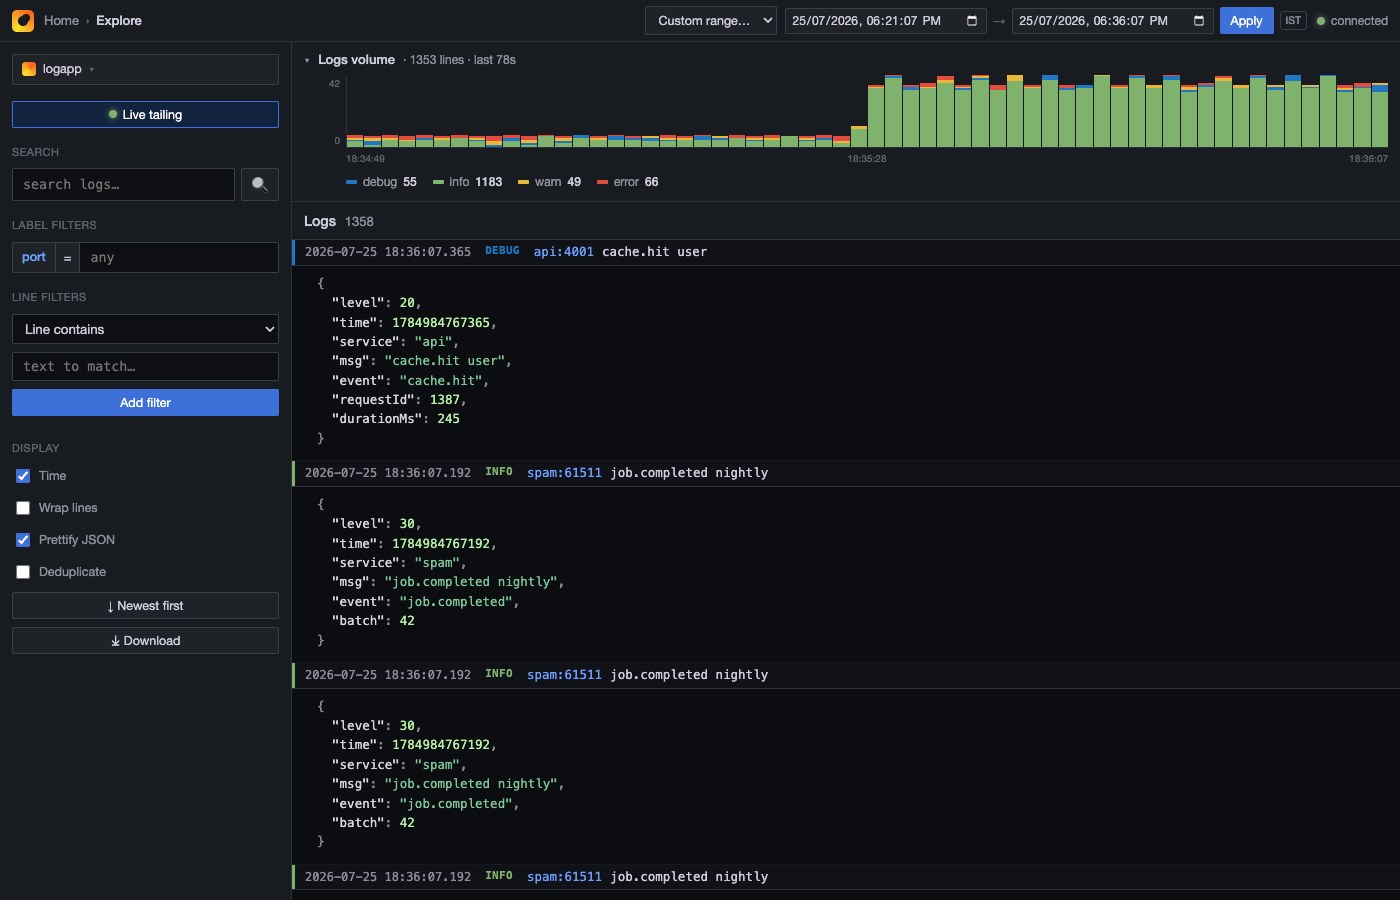
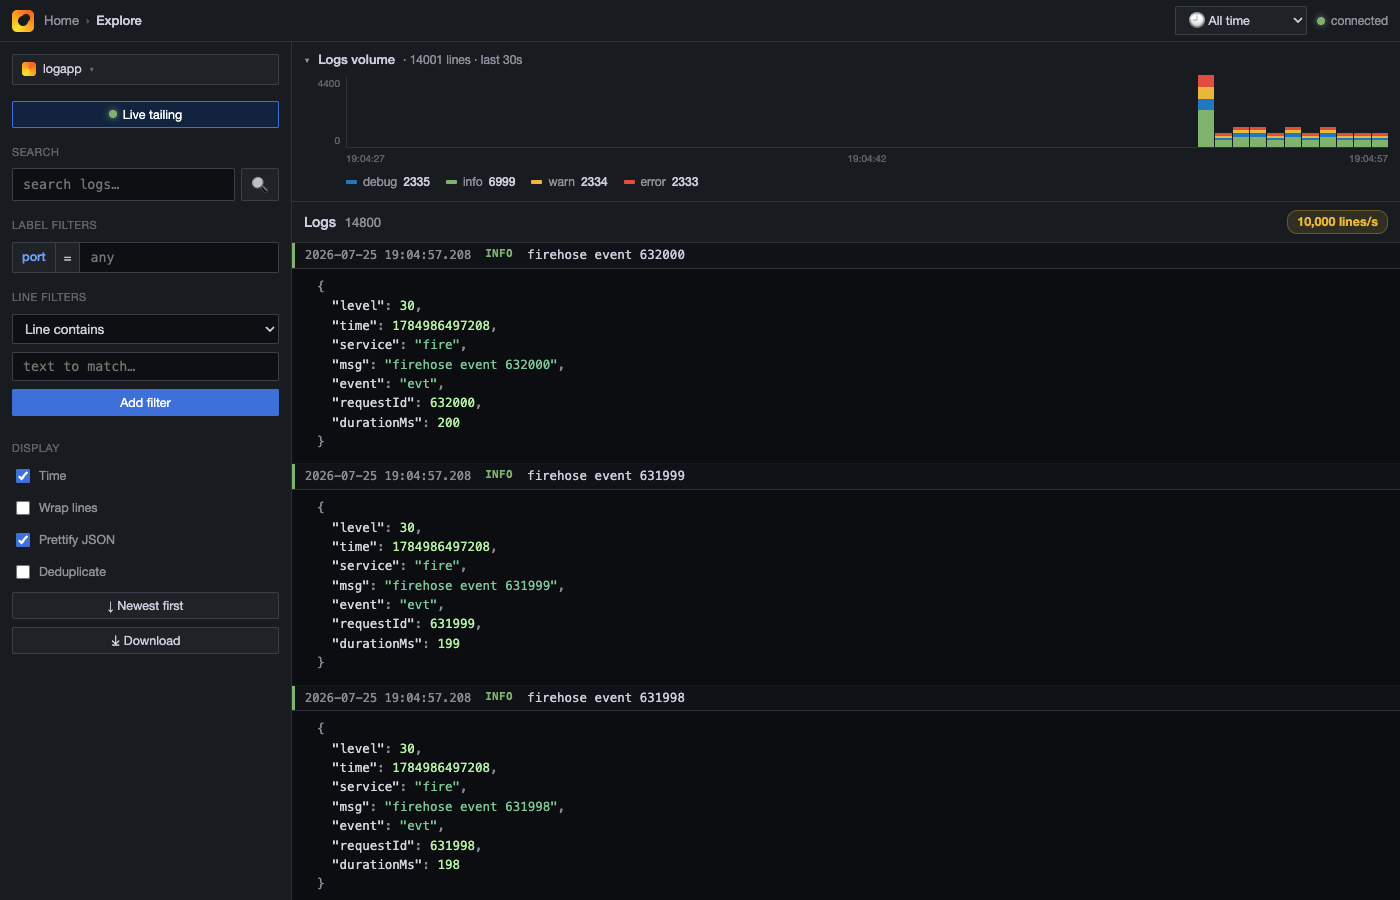
Firehose-safe ingest: survive 10k+ lines/sec without hanging daemon or Chrome
- Raw append to disk (write the original line, no re-serialize); amortised ring
  buffer splice so per-line cost stays O(1) at high volume.
- Rate-limited, batched SSE: live events flush once per 200ms as one array
  (<= LOGAPP_LIVE_BATCH, default 400), instead of one message per line — the
  browser is never flooded. Per-second rate broadcast + a 'N lines/s' badge.
- DOM capped at 800 rows; render debounce 200ms. Chrome renders only a
  screenful regardless of total volume.
- Verified at 10,000 lines/sec: daemon ~11.6% CPU / ~100MB RSS, Chrome fully
  responsive (~0.4ms evaluate roundtrip), DOM = 800 rows, rate badge = 10,000/s.
- Backend E2E 8/8, browser E2E 42/42 still green.

diff --git a/public/index.html b/public/index.html
@@ -124,6 +124,9 @@
     background: var(--panel); border-bottom: 1px solid var(--border); flex: none; }
   .logshead .h { font-weight: 500; font-size: 14px; }
   .logshead .h span { color: var(--weak); font-weight: 400; margin-left: 5px; font-size: 13px; }
+  .rate { color: var(--l-warn); font-weight: 600; font-variant-numeric: tabular-nums; font-size: 12.5px;
+    background: rgba(234,184,57,.12); border: 1px solid rgba(234,184,57,.3); border-radius: 10px; padding: 2px 9px; }
+  .rate:empty { display: none; }
   .chk { display: inline-flex; align-items: center; gap: 6px; color: var(--weak); font-size: 12.5px; cursor: pointer; user-select: none; }
   .chk input { accent-color: var(--blue); width: 14px; height: 14px; cursor: pointer; }
 
@@ -257,7 +260,7 @@
       <div class="xaxis" id="xaxis"></div>
       <div class="legend" id="legend"></div>
     </div>
-    <div class="logshead"><div class="h">Logs <span id="count">0</span></div></div>
+    <div class="logshead"><div class="h">Logs <span id="count">0</span></div><div class="spacer"></div><span id="rate" class="rate"></span></div>
     <div id="log"><div class="empty" id="empty">Waiting for logs… run a server with <code>… --logapp</code>.</div></div>
   </main>
 </div>
@@ -284,7 +287,7 @@ let quickSearch = ''
 let timeRangeMs = 0
 let timeFrom = null
 let timeTo = null
-const MAX_DOM = 1500
+const MAX_DOM = 800
 let live = true, wrap = false, prettify = true, dedup = false, showTime = true, sortDesc = true
 let pendingNew = 0, renderTimer = null, lastHist = 0, atEdgeAllowed = true
 
@@ -416,7 +419,7 @@ function render () {
 function scheduleRender (force) {
   if (force) atEdgeAllowed = true
   if (renderTimer) return
-  renderTimer = setTimeout(render, 110)
+  renderTimer = setTimeout(render, 200)
 }
 
 function renderHistogram () {
@@ -512,6 +515,12 @@ function applyStream (s) {
   else if (s.port) streamState[s.name].port = s.port
 }
 
+function applyRates (rates) {
+  let total = 0
+  rates.forEach((r) => { if (streamState[r.name]) streamState[r.name].rate = r.rate; total += r.rate })
+  $('rate').textContent = total > 0 ? total.toLocaleString() + ' lines/s' : ''
+}
+
 let es
 function connect () {
   es = new EventSource('/events')
@@ -520,7 +529,9 @@ function connect () {
   es.onmessage = (m) => {
     const d = JSON.parse(m.data)
     if (d.type === 'snapshot') { (d.streams || []).forEach(applyStream); d.events.forEach((ev) => addEvent(ev, false)); renderHistogram(); scheduleRender(true) }
+    else if (d.type === 'logs') { for (const ev of d.events) addEvent(ev, true) }
     else if (d.type === 'log') addEvent(d.event, true)
+    else if (d.type === 'rates') applyRates(d.rates)
     else if (d.type === 'stream') applyStream(d.stream)
   }
 }

diff --git a/bin/logapp.js b/bin/logapp.js
@@ -18,6 +18,7 @@ const LOCK_FILE = path.join(STATE_DIR, 'daemon.lock')
 const DAEMON_LOG = path.join(STATE_DIR, 'daemon.log')
 const MAX_BUFFER = Number(process.env.LOGAPP_BUFFER) || 20000
 const SNAPSHOT_LIMIT = Number(process.env.LOGAPP_SNAPSHOT) || 4000
+const LIVE_BATCH = Number(process.env.LOGAPP_LIVE_BATCH) || 400
 const PERSIST = process.env.LOGAPP_PERSIST !== '0'
 const MAX_FILE_BYTES = (Number(process.env.LOGAPP_MAX_FILE_MB) || 2048) * 1024 * 1024
 
@@ -114,6 +115,7 @@ async function runDaemon () {
 
   const streams = new Map()
   const buffer = []
+  const pending = []
   const clients = new Set()
   const streamFiles = new Map()
   let seq = 0
@@ -131,7 +133,7 @@ async function runDaemon () {
   const writeToFile = (ev) => {
     const f = streamFiles.get(ev.stream)
     if (!f || f.ws.writableLength > 8 * 1024 * 1024) return
-    const line = JSON.stringify({ ts: ev.ts, level: ev.level, stream: ev.stream, msg: ev.msg, raw: ev.raw, fields: ev.fields }) + '\n'
+    const line = ev.raw + '\n'
     f.ws.write(line)
     f.bytes += line.length
     if (f.bytes > MAX_FILE_BYTES) {
@@ -221,14 +223,30 @@ async function runDaemon () {
     if (!ev) return
     const s = registerStream(ev.stream)
     s.count++
+    s.rateCount = (s.rateCount || 0) + 1
     s.lastTs = ev.ts
     ev.id = ++seq
     ev.color = s.color
     buffer.push(ev)
-    if (buffer.length > MAX_BUFFER) buffer.splice(0, buffer.length - MAX_BUFFER)
+    if (buffer.length > MAX_BUFFER * 1.3) buffer.splice(0, buffer.length - MAX_BUFFER)
     writeToFile(ev)
-    broadcast({ type: 'log', event: ev })
+    pending.push(ev)
+    if (pending.length > LIVE_BATCH * 4) pending.splice(0, pending.length - LIVE_BATCH * 2)
   }
+
+  setInterval(() => {
+    if (!pending.length || !clients.size) { pending.length = 0; return }
+    const batch = pending.length > LIVE_BATCH ? pending.slice(-LIVE_BATCH) : pending.slice()
+    const dropped = pending.length - batch.length
+    pending.length = 0
+    broadcast({ type: 'logs', events: batch, dropped })
+  }, 200)
+
+  setInterval(() => {
+    const rates = []
+    for (const s of streams.values()) { s.rate = s.rateCount || 0; s.rateCount = 0; rates.push({ name: s.name, rate: s.rate }) }
+    if (rates.length) broadcast({ type: 'rates', rates })
+  }, 1000)
 
   const server = http.createServer((req, res) => {
     const url = new URL(req.url, 'http://' + HOST)

diff --git a/README.md b/README.md
@@ -64,6 +64,19 @@ Because it's a *global* alias, zsh rewrites `--logapp` anywhere on the line into
 
 The UI is a **Grafana Explore–style** logs view.
 
+## Built for the firehose (10k+ lines/sec)
+
+Tested at **10,000 lines/sec**: the daemon stays ~12% of one core and Chrome
+stays fully responsive (~0.4ms). How:
+
+- **Raw append** to disk (no re-serialize), amortised in-memory ring.
+- **Rate-limited, batched SSE** — the browser gets one batch every 200ms
+  (≤ `LOGAPP_LIVE_BATCH`, default 400 lines), not one message per line, so it's
+  never flooded. A **`N lines/s` badge** shows the true incoming rate.
+- **Capped DOM** (≤ 800 rows) — the browser never renders more than a screenful
+  of history regardless of total volume.
+- Full history lives on disk; use search / filters / time-range to drill in.
+
 ## Features
 
 | Feature | What it does |
